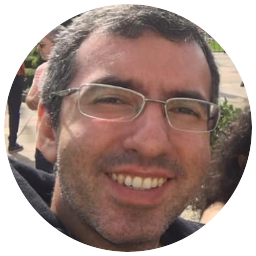
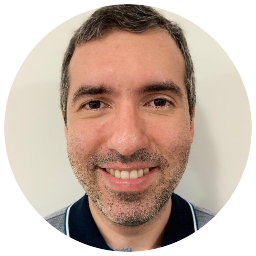
Change image from index and add env file to gitignore

diff --git a/index.html b/index.html
@@ -1,7 +1,7 @@
 <!DOCTYPE html>
 <html lang="en">
 <head>
-  <title>Danielson Silva - Computer Engineer/Web Developer</title>
+  <title>Danielson Silva - Computer Engineer/PHP Developer</title>
   <meta charset="utf-8">
   <meta name="viewport" content="width=device-width, initial-scale=1">
   <link rel="stylesheet" href="https://maxcdn.bootstrapcdn.com/bootstrap/3.4.0/css/bootstrap.min.css">
@@ -13,7 +13,7 @@
 
 <div class="jumbotron text-center">
   <img src="images/token.png" class="rounded mx-auto d-block" alt="Danielson Silva">
-  <h1>Danielson Flávio Xavier da Silva</h1>
+  <br />
   <a href="https://www.linkedin.com/in/danielson-silva/" target="_blank">
     <img src="images/LI-In-Bug.png" class="rounded mx-auto d-block" alt="Linkedin Profile" width="32px" height="32px">
   </a>
